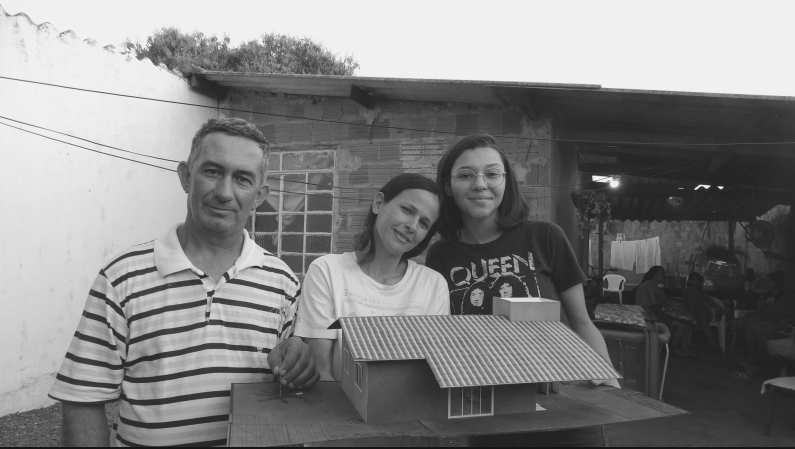
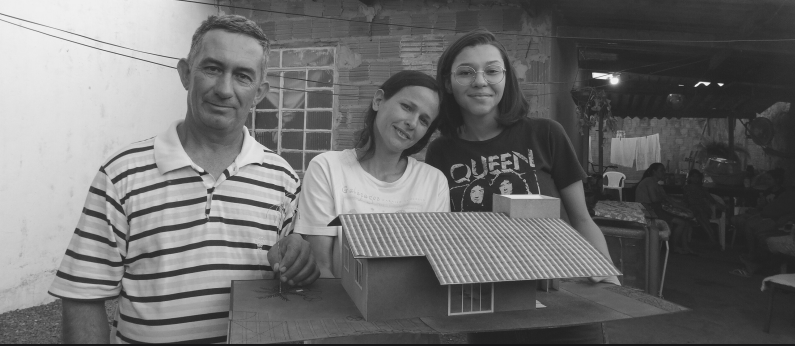
FEAT: Começando o sobre

diff --git a/styles/sobreStyle.css b/styles/sobreStyle.css
@@ -97,6 +97,40 @@ nav {
   flex-direction: column;
 }
 
+header{
+  background-image: url('../assets/dona-elaine-familia.png');
+  background-position: center;
+  background-size: cover;
+  height: 30rem;
+  display: flex;
+}
+
+#content header #banner{
+  display: flex;
+  align-items: flex-end;
+  padding: 1.5rem;
+}
+
+#banner h1 {
+  background-color: #d45e4a;
+  color: #fff;
+  font-size: 2rem;
+  line-height: 1em;
+  margin: 0;
+  padding: 1.2rem;
+  margin-left: 1rem;
+  text-transform: uppercase;
+}
+
+header #banner h1::first-letter{
+  content: "";
+  position: absolute;
+  border-bottom: 3px solid #fff;
+  width: 100px;
+  left:0;
+  bottom:0
+}
+
 .container {
   padding: 2.5rem 1.5rem;
   margin: 0 5rem;

diff --git a/pages/sobre.html b/pages/sobre.html
@@ -58,7 +58,11 @@
     </nav>
 
     <div id="content">
-      <h2>TESTE</h2>
+      <header>
+        <div id="banner">
+          <h1>Quem é dona Elaine?</h1>
+        </div>
+      </header>
       <article>
         <div class="container">
           <h2>Conheça o nosso propósito</h2>
